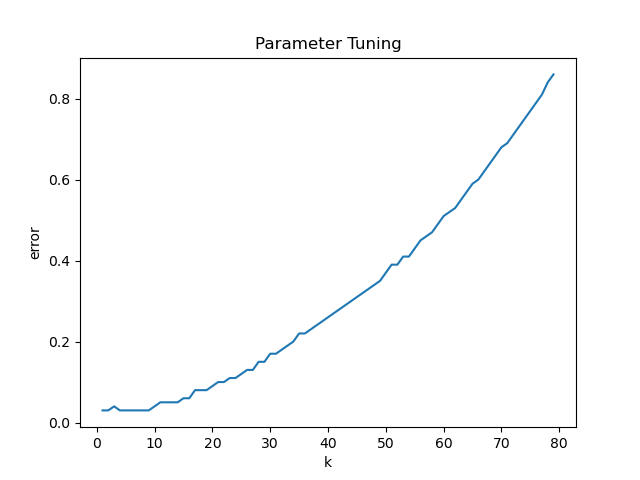
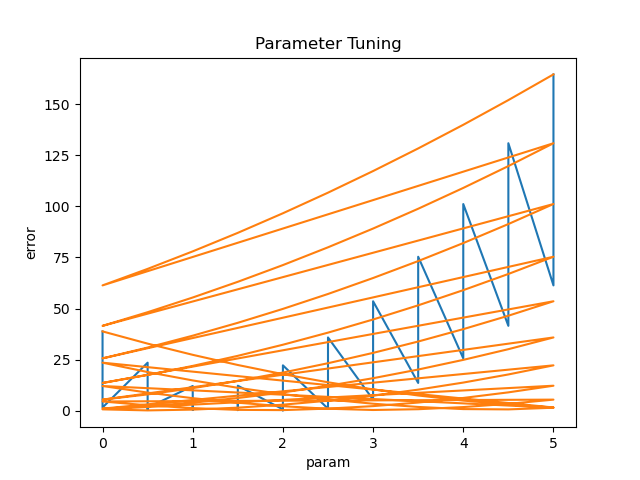
Final
Final commit, all the datasets provide the right ouputs

diff --git a/src/aim_machine_learning/parameter_tuning.py b/src/aim_machine_learning/parameter_tuning.py
@@ -10,14 +10,23 @@ class ParametersTuner:
         self.supported_eval_types = supported_eval_types
         self.output_path = output_path
 
-    def cartesian_product(self, x, y):
-        return np.transpose([np.tile(x, len(y)),
-                             np.repeat(y, len(x))])
+    def product(self, param_list):
+        """
+        Generator producing at each iteration one combination of parameters
+        :param param_list: list of list - values of parameters to be evaluated
+        :return: tuple of chosen parameters
+        """
+        if not param_list:
+            yield ()
+        else:
+            for a in param_list[0]:
+                for prod in self.product(param_list[1:]):
+                    yield (a,) + prod
 
     def tune_parameters(self, params, eval_type, eval_obj, fig_name=None, **kwargs):
         """
 
-        :param params: list of params to tune
+        :param params: dict of lists of params to tune
         :param eval_type: evaluation type among those supported
         :param eval_obj: object of type evaluator
         :param fig_name: name of figure to be saved
@@ -28,12 +37,18 @@ class ParametersTuner:
         if eval_type not in self.supported_eval_types:
             raise NameError('Evaluation type not supported')
 
-        params_list = list(params.values())[0]
+        keys_list = list(params.keys())
+
+        params_list = list(self.product(list(params.values())))
         errs = np.empty(shape=len(params_list))
 
-        for i,k in enumerate(params_list):
+        for i,k in enumerate(list(params_list)):
 
-            mod_eval = ModelEvaluator(self.model_class, self.X, self.y, {'k': k})
+            params_dict = {}
+            for ind, el in enumerate(k):
+                params_dict[keys_list[ind]] = el
+
+            mod_eval = ModelEvaluator(self.model_class, self.X, self.y, params_dict)
 
             if eval_type == 'ttsplit':
                 err_dict = mod_eval.train_test_split_eval(eval_obj=eval_obj, test_proportion=kwargs['test_proportion'])
@@ -43,10 +58,14 @@ class ParametersTuner:
                 err_dict = mod_eval.kfold_cv_eval(eval_obj=eval_obj, K=kwargs['K'])
                 errs[i] = err_dict['mean'] + err_dict['std']
 
-        if self.output_path is not None:
+        if fig_name is not None:
             self.plot_error(params_list, errs, fig_name)
 
-        return {list(params.keys())[0] : params_list[np.argmin(errs)]}
+        final_dict = {}
+        for ind, el in enumerate(params_list[np.argmin(errs)]):
+            final_dict[keys_list[ind]] = el
+
+        return final_dict
 
     def plot_error(self, param_list, errs, fig_name=None):
         """
@@ -60,7 +79,7 @@ class ParametersTuner:
         plt.figure()
         plt.plot(param_list, errs)
         plt.title('Parameter Tuning')
-        plt.xlabel('k')
+        plt.xlabel('param')
         plt.ylabel('error')
         plt.savefig(f'{self.output_path}/{fig_name}')
 

diff --git a/src/aim_machine_learning/multiple_regressor.py b/src/aim_machine_learning/multiple_regressor.py
@@ -1,4 +1,5 @@
 from aim_machine_learning.base_regressor import Regressor
+import numpy as np
 
 class MultipleRegressor(Regressor):
     def __init__(self, a, b, **params):
@@ -9,7 +10,9 @@ class MultipleRegressor(Regressor):
         pass
 
     def predict(self, X):
-        y = self.b + self.a * X
+        y = self.b + np.dot(X, self.a)
         y = y.squeeze()
-        print(y.shape)
         return y
+
+    def __add__(self, other):
+        return MultipleRegressor(a=[[self.a], [other.a]], b=self.b + other.b)

diff --git a/src/main.py b/src/main.py
@@ -39,8 +39,6 @@ try:
 except TypeError:
     print('Regressor e\' una classe astratta.')
 
-# %%
-data_path = 'data/dataset3.csv'
 # Lo scopo del progetto è implementare dei regressori, figli della classe astratta Regressor con molteplici funzionalità.
 # Implementeremo anche una classe Evaluator che utilizzeremo per valutare gli output di un modello.
 from aim_machine_learning.evaluator import Evaluator

diff --git a/src/aim_machine_learning/model_evaluator.py b/src/aim_machine_learning/model_evaluator.py
@@ -3,7 +3,7 @@ import numpy as np
 
 class ModelEvaluator:
     def __init__(self, model_class, X, y, params):
-        self.model = model_class(params['k'])
+        self.model = model_class(**params)
         self.X, self.y = X, y
 
     def train_test_split_eval(self, eval_obj, test_proportion=0.2):
